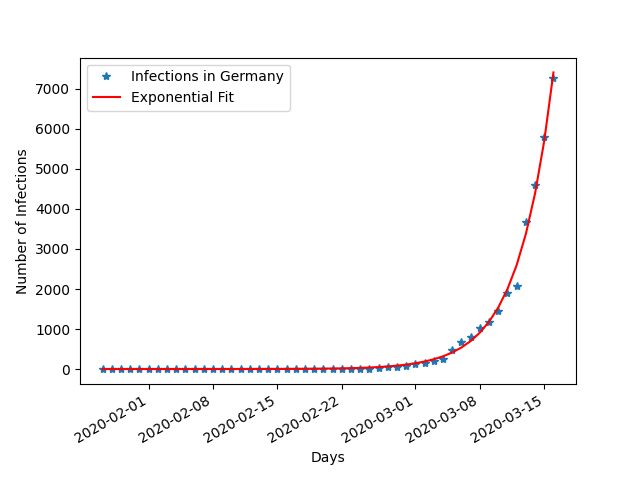
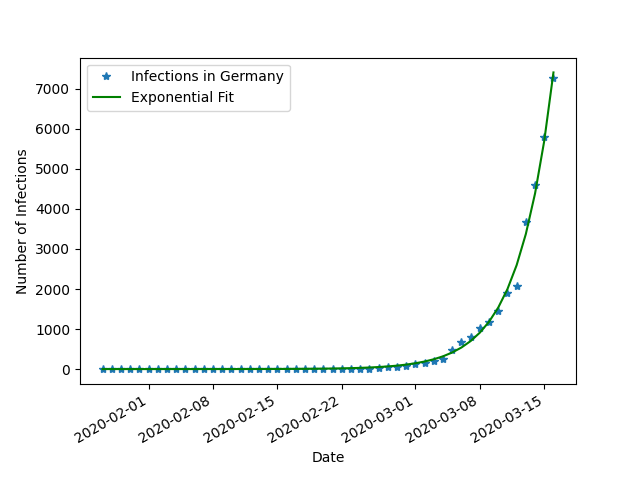
Add prediction

diff --git a/main.py b/main.py
@@ -56,9 +56,9 @@ def main():
     fig, ax = plt.subplots()
 
     ax.plot(df.index, df.values, '*' ,label="Infections in Germany")
-    ax.plot(df.index, exponential(time_in_days, *poptimal_exponential), 'r-', label="Exponential Fit")
+    ax.plot(df.index, exponential(time_in_days, *poptimal_exponential), 'g-', label="Exponential Fit")
 
-    ax.set_xlabel("Days")
+    ax.set_xlabel("Date")
     ax.set_ylabel("Number of Infections")
 
     ax.legend()
@@ -66,7 +66,32 @@ def main():
 
     fig.savefig("plots/exponential_fit.png")
 
-    plt.show()
+
+    prediction_in_days = 5
+
+    time_in_days = np.arange(start=len(df.values), stop=len(df.values)+prediction_in_days)
+    prediction = exponential(time_in_days, *poptimal_exponential).astype(int)
+    df_prediction = pd.Series(prediction)
+    df_prediction.index = pd.date_range(df.index[-1], periods=prediction_in_days+1, closed="right")
+
+    df_prediction = df.append(df_prediction)
+
+    with pd.option_context('display.max_rows', None, 'display.max_columns', None):
+        print(df_prediction)
+
+
+    fig, ax = plt.subplots()
+
+    ax.plot(df.index, df.values, '*' ,label="Infections in Germany")
+    ax.plot(df_prediction.index, df_prediction.values, 'r--' ,label="Predicted Number of Infections")
+
+    ax.set_xlabel("Date")
+    ax.set_ylabel("Number of Infections")
+
+    ax.legend()
+    fig.autofmt_xdate()
+
+    fig.savefig("plots/exponential_extrapolation.png")
 
 
 if __name__ == '__main__':

diff --git a/README.md b/README.md
@@ -1,7 +1,12 @@
 # Live Covid-19 extrapolation of infected persons in Germany
 
+## Current situation:
+
 ![](plots/exponential_fit.png)
 
+
+## Extrapolation based on exponential growth
+![](plots/exponential_extrapolation.png)
 
 ## Data source
 [Data Repository by Johns Hopkins CSSE](https://github.com/CSSEGISandData/COVID-19)
